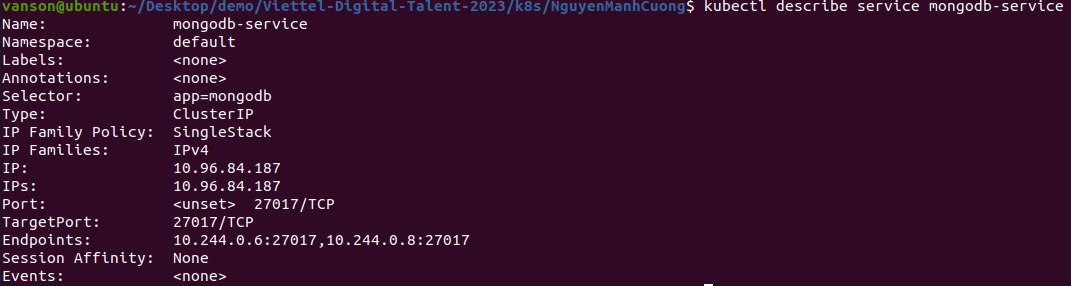
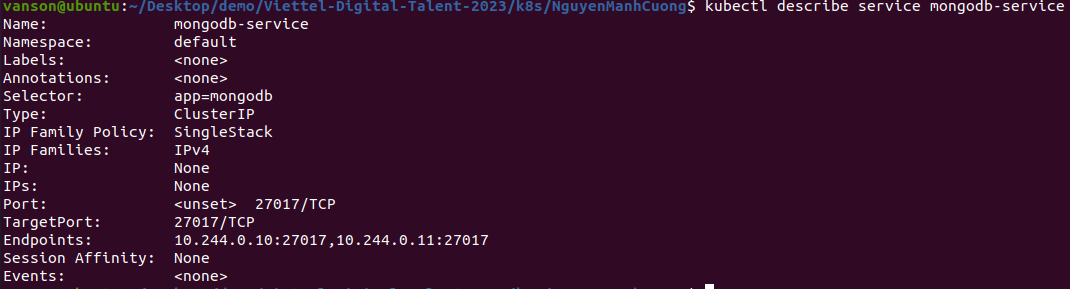
update statefulset and readme

diff --git a/k8s/NguyenManhCuong/README.md b/k8s/NguyenManhCuong/README.md
@@ -6,6 +6,8 @@
 -   ### [1 Introduction to Kubernetes](#11-introduction-to-kubernetes)
 -   ### [2 Kubernetes Components](#12-kubernetes-components)
 -   ### [3 Kubernetes Architecture](#13-kubernetes-architecture)
+-   ### [4 Kubernetes Storage](#14-kubernetes-storage)
+-   ### [5 Kubernetes StatefulSet](#15-kubernetes-statefulSet)
 
 ## [II. Homework](#2-homework)
 
@@ -79,6 +81,142 @@ In practice, a Kubernetes cluster is composed of multiple Master nodes, each run
 <br>Picture 3. Example cluster set-up
 </p>
 
+## 1.4 Kubernetes Storage
+
+**Storage Requirements**
+- Storage doesn't depend on the pod lifecycle
+- Storage must be available on all nodes
+- Storage needs to survice even if cluster crashes
+  
+**Persistent Volume**
+
+**Persistent Volume (PV)** in Kubernetes is a **cluster resource** used for data storage. It is created via a YAML file and *requires physical storage*, such as local hard drives, external NFS servers, or cloud storage like AWS. PV ensures data persistence for Kubernetes applications, even during pod or container restarts, making it vital for reliable storage.
+  
+*Example of yaml file for PV using local storage (on the node itself):*
+```yaml
+apiVersion: v1
+kind: PersistentVolume
+metadata:
+  name: example-pv
+spec:
+  capacity:
+    storage: 5Gi
+  volumeMode: Filesystem
+  accessModes:
+  - ReadWriteOnce
+  persistentVolumeReclaimPolicy: Delete
+  storageClassName: local-storage
+  local:
+    path: /mnt/disks/ssd1
+  nodeAffinity:
+    required:
+      nodeSelectorTerms:
+      - matchExpressions:
+        - key: kubernetes.io/hostname
+          operator: In
+          values:
+          - example-node
+```
+Persistent Volumes (PVs) in Kubernetes are non-namespaced resources, meaning they are accessible to the entire cluster. The responsibility of provisioning the storage resource lies with the **Kubernetes administrator**. They create PV components using the available storage backends.
+
+**Persistent Volume Claim (PVC)**
+
+In Kubernetes, a PVC is used by applications to claim a PV with a specified storage size or capacity. It simplifies the process of obtaining and managing storage resources for applications.
+
+*Example of yaml file for PVC:*
+```yaml
+apiVersion: v1
+kind: PersistentVolumeClaim
+metadata:
+  name: mongodb-pvc
+spec:
+  accessModes:
+    - ReadWriteOnce
+  resources:
+    requests:
+      storage: 500Mi
+  volumeMode: Filesystem
+```
+Use that PVC in Pods configuration
+```yaml
+volumes:
+  - name: db-data
+    persistentVolumeClaim:
+      claimName: mongodb-pvc
+```
+**Level of Volume abstractions:**
+
+- Pod requests the volume through the PV claim.
+- Claim tries to find a volume in cluster. Claims must exist in the same namespace as the pod using the claim.
+- Volume has the actual storage backend
+- Once the Pod finds the matching PV through the PVC, the volume is then mounted into to the Pod. And then that volum can be mounted into the container inside the Pod.
+
+**Storage Class**
+
+Storage Class (SC) dynamically provisions PVs for PVCs. It abstracts the underlying storage provider and parameters.
+- Pod claims storage via PVC
+- PVC requests storage from SC
+- SC creates PV that meets the needs of the Claim.
+
+*Example of yaml file for SC and PVC:*
+```yaml
+apiVersion: storage.k8s.io/v1
+kind: StorageClass
+metadata:
+  name: storage-class-name
+provisioner: kubernetes.io/aws-ebs
+parameters:
+  type: io1
+  iopsPerGB: "10"
+  fsType: ext4
+
+---
+apiVersion: v1
+kind: PersistentVolumeClaim
+metadata:
+     name: mypvc
+spec:
+     accessModes:
+     - ReadWriteOnce
+     resources:
+       requests:
+         storage: 1Gi
+     storageClassName: storage-class-name
+```
+  
+<p align = "center">
+<img src = "./images/volumes.png" width = 500 height = 400> 
+<br>Picture 4. Kubernetes Storage - PV, PVC and Storage Class
+</p>
+
+## 1.5 Kubernetes StatefulSet
+
+In Kubernetes **StatefulSet** is used for **stateful applications** like databases or any application that stores data. Otherwise **stateless applications** don't keep record of state, each request is commpletely new.
+
+|                 Deployment            |                    StatefulSet                       |
+|---------------------------------------|------------------------------------------------------|
+| Used to deploy Stateless applications | Used to deploy Stateful applications                 |
+| All Pods are created parallely        | Pods are created one by one                          |
+| Pods are deleted randomly             | Pods are deleted in reverse order                    |
+| Random name is assigned to all pods   | Sticky and predictable name is assigned to the pods  |
+| Same PV is used for all pods          | Different PVs are used for each pod                  |
+
+**Scaling database applications:**
+If we allow 2 indepentdent instances of database (like Mongodb) to change the data, it ends up with **data inconsistency**. So instead there is a mechanism that decides that only one Pod is allowed to write or change the data which is shared reading at the same time by multiple Pods (Mongodb instances) from the same data is completely fine. The Pod that is allowed to update the data is called the **Master** and the other are called **Slaves**.
+
+The database Pods do not have access to the same physical storage, even though they use the same data. They each have their own replicas of the storage that each one of them can access for itself.
+
+Each Pods at anytime must have the same data as the other ones, they have to **continously synchronize** the data. Since Master is the only one to allow to change data and the Slave must know about changes and they can update their own data storage to be up-to-date for the next query request.
+
+Unlike **Deployment** when the Pods get random hashes at the end, **StatefulSet** Pods get fixed ordered name ```$(statefuleset name)-$(ordinal)```.
+
+Each StatefulSet Pod gets its own DNS endpoint from a service ```${pod name}.${governing service domain}```. So these two characteristics have predictable pod name and fixed individual DNS name. It mean that when Pod restarts the IP-address will be changed, but the name and endpoint will stay same.
+<p align = "center">
+<img src = "./images/scalingdata.png" width = 600 height = 300> 
+<img src = "./images/scalingdata2.png" width = 600 height = 300> 
+<br>Picture 5. Scaling database applications 
+</p>
+
 # 2. Homework
 
 **Requirements**
@@ -112,7 +250,7 @@ In this particular exercise, I chose to use Kind for development
 [ $(uname -m) = aarch64 ] && curl -Lo ./kind https://kind.sigs.k8s.io/dl/v0.19.0/kind-linux-arm64
 chmod +x ./kind
 sudo mv ./kind /usr/local/bin/kind
-kind create cluster --image kindest/node:v1.22.0
+kind create cluster --image kindest/node:v1.22.0 --name app
 ```
 **Install kubectl**
 
@@ -124,7 +262,7 @@ snap install kubectl --classic
 
 <p align = "center">
 <img src = "./images/create_cluster.png" width = 800 height = 300> 
-<br>Picture 4. Create Cluster Kubernetes using Kind
+<br>Picture 6. Create Cluster Kubernetes using Kind
 </p>
 
 ## 2.2 Configmap and Secret
@@ -136,8 +274,14 @@ apiVersion: v1
 kind: ConfigMap
 metadata:
   name: mongodb-configmap
+immutable: false
 data:
   database-url: mongodb-service
+  mongodb.conf: |
+    storage:
+      dbPath: /data/db
+    replication:
+        replSetName: "rs0"
 ```
 The **Secret** resource named "mongodb-secret" is created to store **sensitive data** related to a MongoDB database. The Secret contains two key-value pairs for the username and password, where the values are Base64-encoded to provide a level of obfuscation.
 ```yaml
@@ -163,7 +307,7 @@ kubectl apply -f mongodb_secret.yaml
 
 <p align = "center">
 <img src = "./images/configmap_secret.png" width = 800 height = 500> 
-<br>Picture 5. ConfigMap and Secret in the Cluster
+<br>Picture 7. ConfigMap and Secret in the Cluster
 </p>
 
 ## 2.3 Database Deployment and Service
@@ -194,6 +338,8 @@ spec:
         volumeMounts:
           - name: db-data
             mountPath: /data/db
+          - name: mongodb-config
+            mountPath: /etc/mongo
         ports:
         - containerPort: 27017
         env:
@@ -207,19 +353,30 @@ spec:
             secretKeyRef:
               name: mongodb-secret
               key: mongo-password
-              
+        command:
+          - mongod
+          - "--bind_ip_all"
+          - --config=/etc/mongo/mongodb.conf
+      volumes:
+        - name: mongodb-config
+          configMap:
+            name: mongodb-configmap
+            items:
+              - key: mongodb.conf
+                path: mongodb.conf
+
   volumeClaimTemplates:
-  - metadata:
-      name: db-data
-    spec:
-      accessModes: [ "ReadWriteOnce" ]
-      storageClassName: standard
-      resources:
-        requests:
-          storage: 500Mi
+    - metadata:
+        name: db-data
+      spec:
+        accessModes: [ "ReadWriteOnce" ]
+        storageClassName: standard
+        resources:
+          requests:
+            storage: 500Mi
 ```
 - The StatefulSet is defined with the name ```db-statefulset```.
-- The StatefulSet is configured with **two replicas** This will create and maintain two MongoDB instances.
+- The StatefulSet is configured with **two replicas** This will create and maintain **two MongoDB instances.**
 - ```selector``` defines the label selector that the StatefulSet will use to match the Pods it manages. In this case, it matches the label app: mongodb.
 - ```serviceName```: ```mongodb-service``` specifies the name of the associated Service for the StatefulSet.
 - ```template``` defines the Pod template for the MongoDB instances.
@@ -234,7 +391,10 @@ By deploying this **StatefulSet** manifest, I will have two MongoDB instances ru
 
 In addition to the StatefulSet, see an example of a **Deployment** for deploying a database [here](./mongodb-deployment.yaml).
 
-**Service**
+**Headless Service**
+
+In Kubernetes, regular Services acts like a load balancer, meaning if we call the services the request goes to a random Pod, but here we need to talk to specific Pod, like all right should go to the Master pod and Slave 1 should get the data from the Master. So we need a way to directly copy a Pod instead of balancing our load across the Pods, for this purpose Kubernetes provide a special Sercive called **Headless Service** (set``` clusterIP: None```). Through these service each pod gets its DNS entrypoint (```db-statefulset-0.mongodb-service.default.svc.cluster.local:27017```), so now when we try to access this DNS the request directly goes to the Pod
+
 ```yaml
 apiVersion: v1
 kind: Service
@@ -247,7 +407,12 @@ spec:
   - protocol: TCP
     port: 27017
     targetPort: 27017
+  clusterIP: None
 ```
+<p align = "center">
+<img src = "./images/headless_service.png" width = 400 height = 600> 
+<br>Picture 8. ConfigMap and Secret in the Cluster
+</p>
 
 **Apply a Statefulset and a Service for database in Cluster**
 
@@ -256,17 +421,49 @@ kubectl apply -f mongodb-statefulset.yaml
 ```
 <p align = "center">
 <img src = "./images/mongodb_pods.png" width = 800 height = 100> 
-<br>Picture 6. Database Pods
+<br>Picture 9. Database Pods
 </p>
 
 <p align = "center">
 <img src = "./images/mongodb_service.png" width = 800 height = 200> 
-<br>Picture 7. Service for database (mongodb-service)
+<br>Picture 10. Service for database (mongodb-service)
 </p>
 
 <p align = "center">
 <img src = "./images/statefulset.png" width = 800 height = 100> 
-<br>Picture 8. StatefulSet for database (db-statefulset)
+<br>Picture 11. StatefulSet for database (db-statefulset)
+</p>
+
+<p align = "center">
+<img src = "./images/pvc.png" width = 800 height = 100> 
+<br>Picture 12. PVC for database Pods
+</p>
+
+Now we must create the mongodb replicaset. So as we have 2 mongodb Pods, we should able to specify a specific Pod as the Master Pod and other is the Slave. StatefulSet just manages the Pods, it doesn't create the replication for us. The Replication has to be done by ourselves.
+
+Get into the Pod:
+```shell
+kubectl exec -it db-statefulset-0 -- mongo
+```
+
+Initiate the replicaset for mongodb:
+```js
+rs.initiate(
+   {
+      _id: "rs0",
+      version: 1,
+      members: [
+         { _id: 0, host : "db-statefulset-0.mongodb-service.default.svc.cluster.local:27017" },
+         { _id: 1, host : "db-statefulset-1.mongodb-service.default.svc.cluster.local:27017" }
+      ]
+   }
+)
+```
+Now, the Pod has been changed to the primary. After initialization, all Slaves should be synchronized with the primary Pod. To enable reads on the Secondary Pods (Slaves) should run command ```rs.slaveOK()``` . So the  ```db-statefulset-1``` Pod should also have the same data as ```db-statefulset-0```.
+
+<p align = "center">
+<img src = "./images/primarypod.png" width = 800 height = 450> 
+<br>Picture 13. Master Pod for database
 </p>
 
 ## 2.4 Backend Deployment and Service
@@ -336,7 +533,7 @@ kubectl apply -f backend_deployment.yaml
 
 <p align = "center">
 <img src = "./images/backend_pods_service.png" width = 800 height = 200> 
-<br>Picture 9. Pods and Service for backend
+<br>Picture 14. Pods and Service for backend
 </p>
 
 ## 2.5 Frontend Deployment and Service
@@ -390,17 +587,18 @@ kubectl apply -f frontend_deployment.yaml
 
 <p align = "center">
 <img src = "./images/frontend_pods_service.png" width = 800 height = 200> 
-<br>Picture 10. Pods and Service for frontend
+<br>Picture 15. Pods and Service for frontend
 </p>
 
 ## 2.6 Result
 
 <p align = "center">
 <img src = "./images/list_students.png" width = 800 height = 400> 
-<br>Picture 11. Demo web frontend
+<br>Picture 16. Demo web
 </p>
 
 <p align = "center">
 <img src = "./images/api.png" width = 800 height = 400> 
-<br>Picture 12. Demo web api
+<br>Picture 17. Demo web api
 </p>
+
